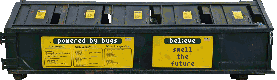
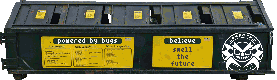
There's some startup stuff.

Changed region(s): [[0.7798, 0.4, 0.9531, 0.9], [0.8664, 0.9, 0.8953, 0.925]]

diff --git a/main/modes/games/bigbug/entity_bigbug.c b/main/modes/games/bigbug/entity_bigbug.c
@@ -32,7 +32,6 @@ void bb_initializeEntity(bb_entity_t* self, bb_entityManager_t* entityManager, b
     self->active        = false;
     self->gameData      = gameData;
     self->soundManager  = soundManager;
-    self->entityManager = entityManager;
 }
 
 void bb_setData(bb_entity_t* self, void* data)
@@ -93,8 +92,8 @@ void bb_destroyEntity(bb_entity_t* self, bool caching)
     self->tileCollisionHandler        = NULL;
     self->overlapTileHandler          = NULL;
 
-    self->entityManager->activeEntities--;
-    // printf("%d/%d entities v\n", self->entityManager->activeEntities, MAX_ENTITIES);
+    self->gameData->entityManager.activeEntities--;
+    // printf("%d/%d entities v\n", self->gameData->entityManager.activeEntities, MAX_ENTITIES);
 }
 
 void bb_updateRocketLanding(bb_entity_t* self)
@@ -215,7 +214,7 @@ void bb_updatePhysicsObject(bb_entity_t* self)
 
 void bb_updateGarbotnikDeploy(bb_entity_t* self)
 {
-    if (self->currentAnimationFrame == self->entityManager->sprites[self->spriteIndex].numFrames - 1)
+    if (self->currentAnimationFrame == self->gameData->entityManager.sprites[self->spriteIndex].numFrames - 1)
     {
         self->paused = true;
         // deploy garbotnik!!!
@@ -647,7 +646,7 @@ void bb_updateMenuBug(bb_entity_t* self)
 {
     bb_menuBugData_t* mbData = (bb_menuBugData_t*)self->data;
     self->pos.x += (mbData->xVel - 3) << DECIMAL_BITS;
-    if (mbData->firstTrip && self->pos.x < self->entityManager->viewEntity->pos.x - (130 << DECIMAL_BITS))
+    if (mbData->firstTrip && self->pos.x < self->gameData->entityManager.viewEntity->pos.x - (130 << DECIMAL_BITS))
     {
         mbData->firstTrip = false;
         mbData->xVel      = bb_randomInt(-5, 5);
@@ -725,7 +724,7 @@ void bb_updateMenu(bb_entity_t* self)
     }
 
 
-    mData->cursor->pos.y = self->pos.y + (143<<DECIMAL_BITS) + mData->selectionIdx * (24<<DECIMAL_BITS);
+    mData->cursor->pos.y = self->pos.y + (145<<DECIMAL_BITS) + mData->selectionIdx * (22<<DECIMAL_BITS);
 
     if (self->gameData->menuBug == NULL || self->gameData->menuBug->active == false)
     {
@@ -776,6 +775,9 @@ void bb_updatePOI(bb_entity_t* self)
             free(tData);
             self->data           = NULL;
             self->updateFunction = NULL;
+
+            bb_createEntity(&self->gameData->entityManager, NO_ANIMATION, true, OVO_TALK, 1, self->gameData->camera.camera.pos.x, self->gameData->camera.camera.pos.y, true);
+
             return;
         }
         fastNormVec(&ToFrom.x, &ToFrom.y);
@@ -784,6 +786,7 @@ void bb_updatePOI(bb_entity_t* self)
         ToFrom.y  = ToFrom.y >> 8;
         self->pos = addVec2d(self->pos, ToFrom);
     }
+
 }
 
 void bb_updateFlame(bb_entity_t* self)
@@ -800,6 +803,15 @@ void bb_updateFlame(bb_entity_t* self)
             self->animationTimer = newFrame;
             self->currentAnimationFrame = newFrame;
         }
+    }
+}
+
+void bb_updateCharacterTalk(bb_entity_t* self)
+{
+    if(self->gameData->entityManager.sprites[self->spriteIndex].originY < -30)
+    {
+        self->gameData->entityManager.sprites[self->spriteIndex].originY += 10;
+        printf("Y %d\n", self->gameData->entityManager.sprites[self->spriteIndex].originY);
     }
 }
 

diff --git a/main/modes/games/bigbug/entityManager_bigbug.c b/main/modes/games/bigbug/entityManager_bigbug.c
@@ -127,6 +127,8 @@ void bb_loadSprites(bb_entityManager_t* entityManager)
     bb_sprite_t* deathDumpsterSprite = bb_loadSprite("DeathDumpster", 1, 1, &entityManager->sprites[BB_DEATH_DUMPSTER]);
     deathDumpsterSprite->originX     = 138;
     deathDumpsterSprite->originY     = 115;
+
+    bb_sprite_t* ovoTalk = bb_loadSprite("ovo_talk", 8, 1, &entityManager->sprites[OVO_TALK]);
 }
 
 void bb_updateEntities(bb_entityManager_t* entityManager, bb_camera_t* camera)
@@ -272,7 +274,7 @@ void bb_updateEntities(bb_entityManager_t* entityManager, bb_camera_t* camera)
 
 void bb_updateStarField(bb_entityManager_t* entityManager, bb_camera_t* camera)
 {
-    if (camera->camera.pos.y < -1000 && camera->camera.pos.y > -4880)
+    if (camera->camera.pos.y < -1000 && camera->camera.pos.y > -5385)
     {
         int16_t halfWidth  = HALF_WIDTH >> DECIMAL_BITS;
         int16_t halfHeight = HALF_HEIGHT >> DECIMAL_BITS;
@@ -724,7 +726,7 @@ bb_entity_t* bb_createEntity(bb_entityManager_t* entityManager, bb_animationType
 
             mData->cursor
                 = bb_createEntity(entityManager, LOOPING_ANIMATION, false, HARPOON, 1,
-                                  (entity->pos.x >> DECIMAL_BITS) - 29, (entity->pos.y >> DECIMAL_BITS) + 135, false);
+                                  (entity->pos.x >> DECIMAL_BITS) - 22, (entity->pos.y >> DECIMAL_BITS) + 135, false);
 
             // This will make it draw pointed right
             ((bb_projectileData_t*)mData->cursor->data)->vel = (vec_t){10, 0};
@@ -750,6 +752,12 @@ bb_entity_t* bb_createEntity(bb_entityManager_t* entityManager, bb_animationType
         {
             entity->updateFunction = &bb_updatePOI;
             entity->drawFunction   = &bb_drawNothing;
+        }
+        case OVO_TALK:
+        {
+            entityManager->sprites[OVO_TALK].originY = -240;
+            entity->currentAnimationFrame = bb_randomInt(0,7);
+            entity->updateFunction = &bb_updateCharacterTalk;
         }
         default: // FLAME_ANIM and others need nothing set
         {

diff --git a/main/modes/games/bigbug/entity_bigbug.h b/main/modes/games/bigbug/entity_bigbug.h
@@ -151,7 +151,6 @@ struct bb_entity_t
 
     bb_gameData_t* gameData;
     bb_soundManager_t* soundManager;
-    bb_entityManager_t* entityManager;
 
     int16_t halfWidth;  // Distance from the origin to the side edge (for AABB physics)
     int16_t halfHeight; // Distance from the origin to the top edge (for AABB physics)
@@ -189,6 +188,7 @@ void bb_updateBug(bb_entity_t* self);
 void bb_updateMenu(bb_entity_t* self);
 void bb_updatePOI(bb_entity_t* self);
 void bb_updateFlame(bb_entity_t* self);
+void bb_updateCharacterTalk(bb_entity_t* self);
 
 void bb_drawGarbotnikFlying(bb_entityManager_t* entityManager, rectangle_t* camera, bb_entity_t* self);
 void bb_drawHarpoon(bb_entityManager_t* entityManager, rectangle_t* camera, bb_entity_t* self);

diff --git a/main/modes/games/bigbug/typedef_bigbug.h b/main/modes/games/bigbug/typedef_bigbug.h
@@ -43,6 +43,7 @@ typedef enum
     BUTT,
     BB_MENU,           // Various sprites loaded as frames to create the parallax main menu
     BB_DEATH_DUMPSTER, // Garbotnik's evil lair in space
+    OVO_TALK,          // Awesome art for dialogue moments. Each frame just provides a different flavor.
     WILE,              // A metal ball that is thrown
     NO_SPRITE_STAR,    // a single white pixel for aesthetic beauty.
     NO_SPRITE_POI      // Point of interest for the camera to follow in the main menu

diff --git a/main/modes/games/bigbug/mode_bigbug.c b/main/modes/games/bigbug/mode_bigbug.c
@@ -145,7 +145,7 @@ static void bb_EnterMode(void)
 
 
     bb_entity_t* foreground    = bb_createEntity(&(bigbug->gameData.entityManager), NO_ANIMATION, true, BB_MENU, 1,
-                                                 (TILE_FIELD_WIDTH / 2) * TILE_SIZE + HALF_TILE + 1, -5000, true);
+                                                 (TILE_FIELD_WIDTH / 2) * TILE_SIZE + HALF_TILE + 1, -5500, true);
 
     foreground->updateFunction = NULL;
     foreground->drawFunction   = &bb_drawMenuForeground;

diff --git a/main/modes/games/bigbug/entityManager_bigbug.h b/main/modes/games/bigbug/entityManager_bigbug.h
@@ -18,7 +18,7 @@
 // Constants
 //==============================================================================
 #define MAX_ENTITIES 200
-#define NUM_SPRITES  16 // The number of bb_sprite_t
+#define NUM_SPRITES  17 // The number of bb_sprite_t
 
 //==============================================================================
 // Structs
